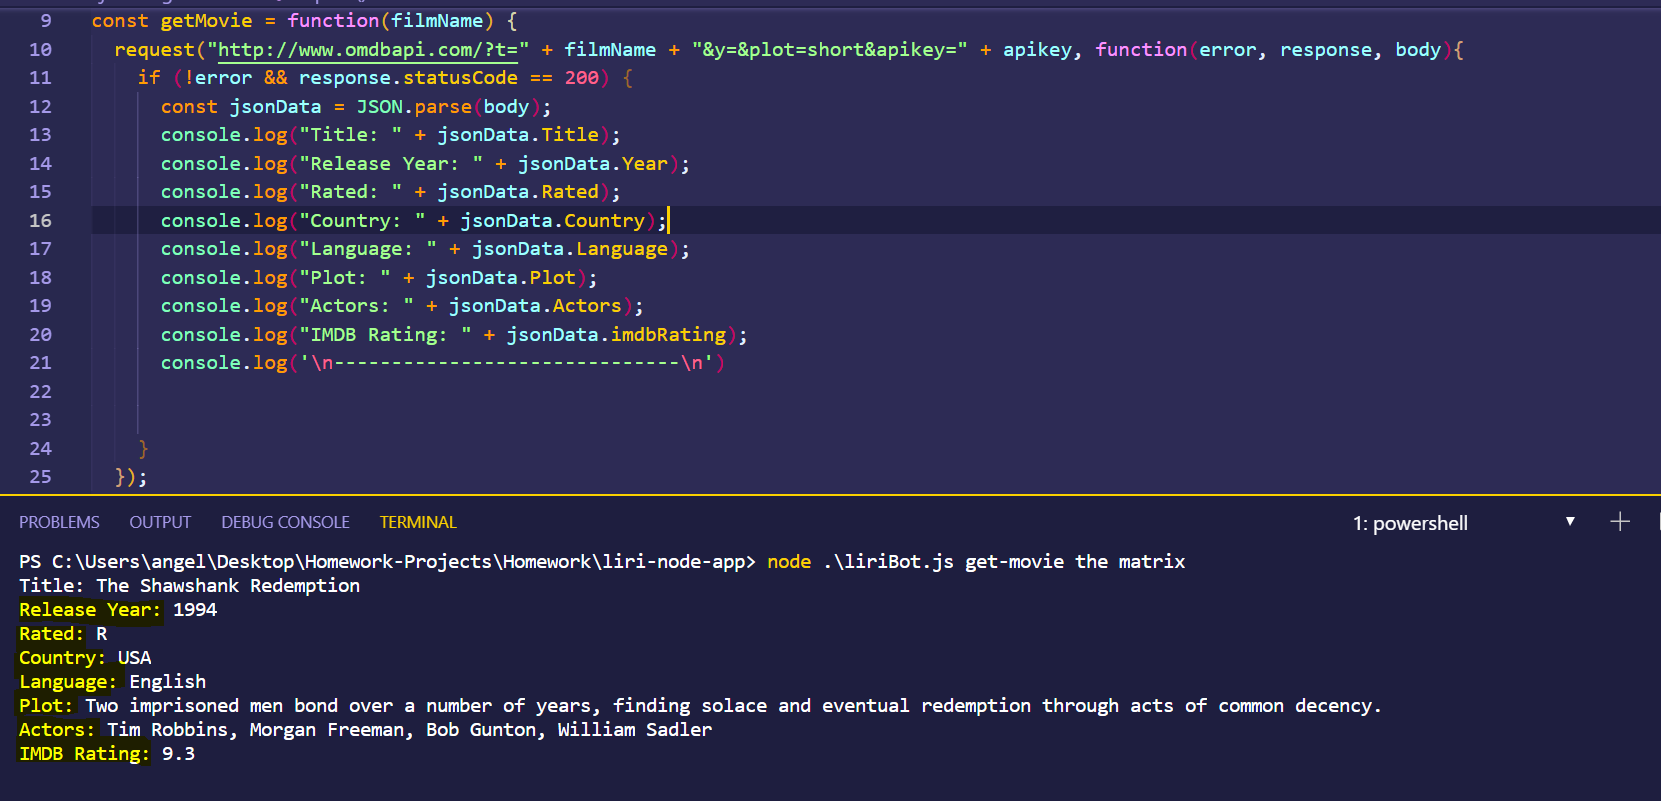
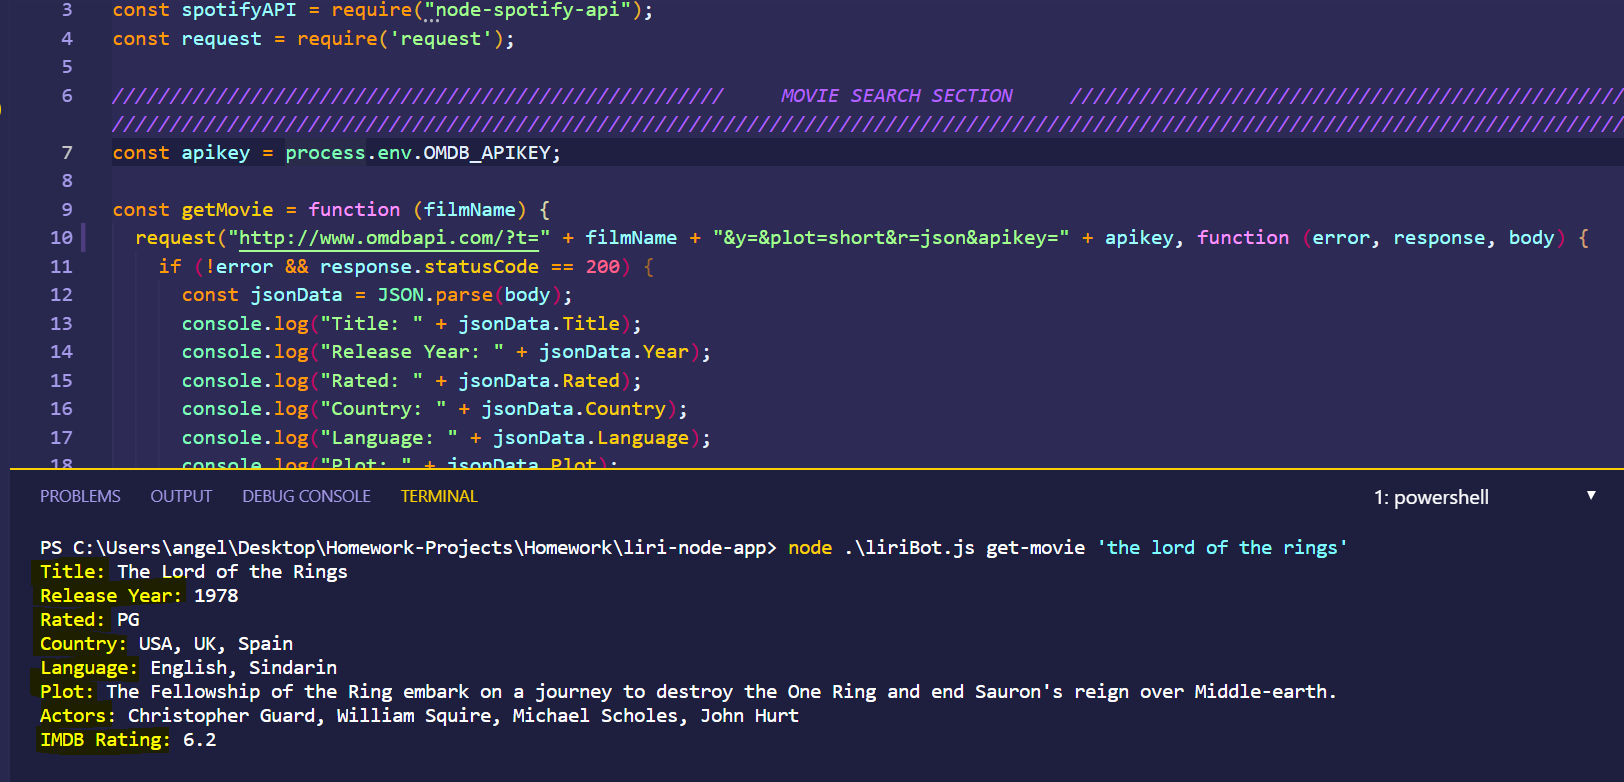
updated images for demo

diff --git a/liriBot.js b/liriBot.js
@@ -7,7 +7,7 @@ const request = require('request');
 const apikey = process.env.OMDB_APIKEY;
 
 const getMovie = function (filmName) {
-  request("http://www.omdbapi.com/?t=" + filmName + "&y=&plot=short&apikey=" + apikey, function (error, response, body) {
+  request("http://www.omdbapi.com/?t=" + filmName + "&y=&plot=short&r=json&apikey=" + apikey, function (error, response, body) {
     if (!error && response.statusCode == 200) {
       const jsonData = JSON.parse(body);
       console.log("Title: " + jsonData.Title);
